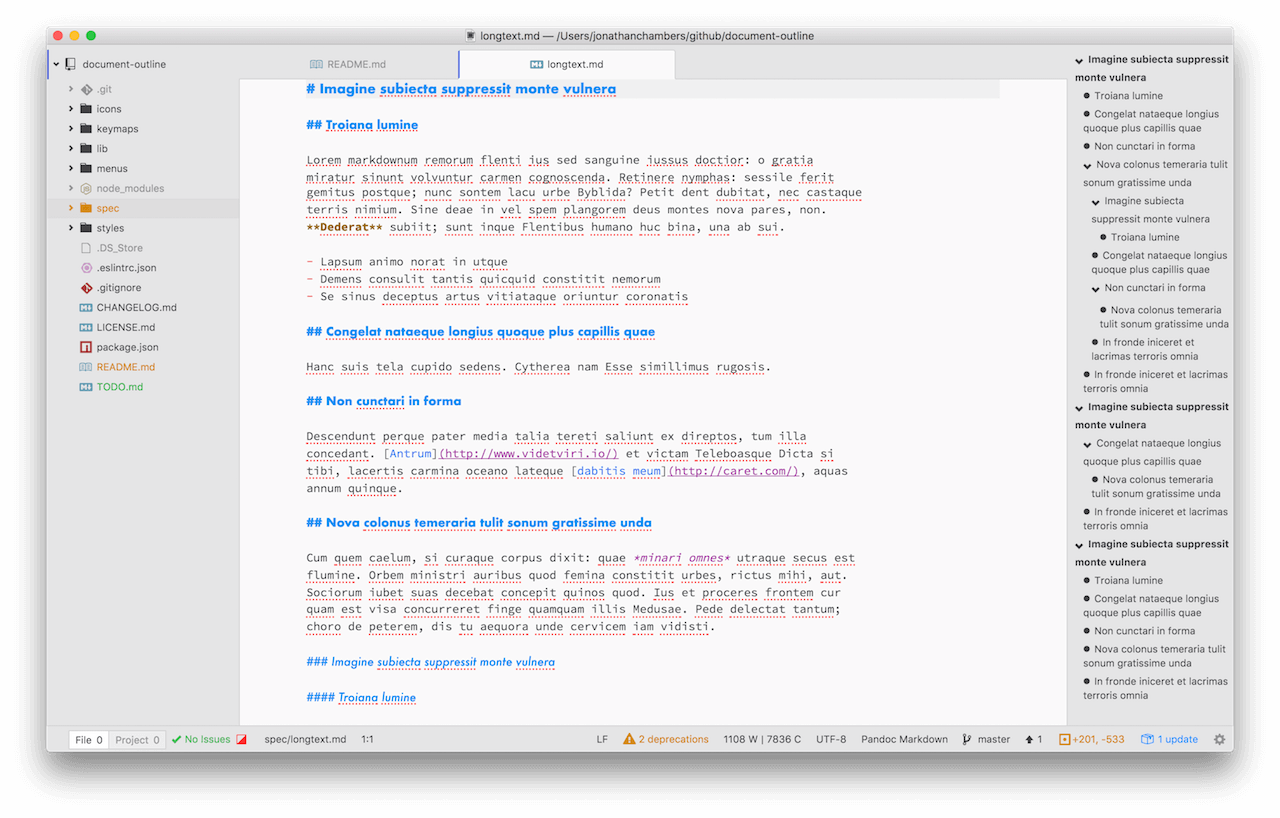
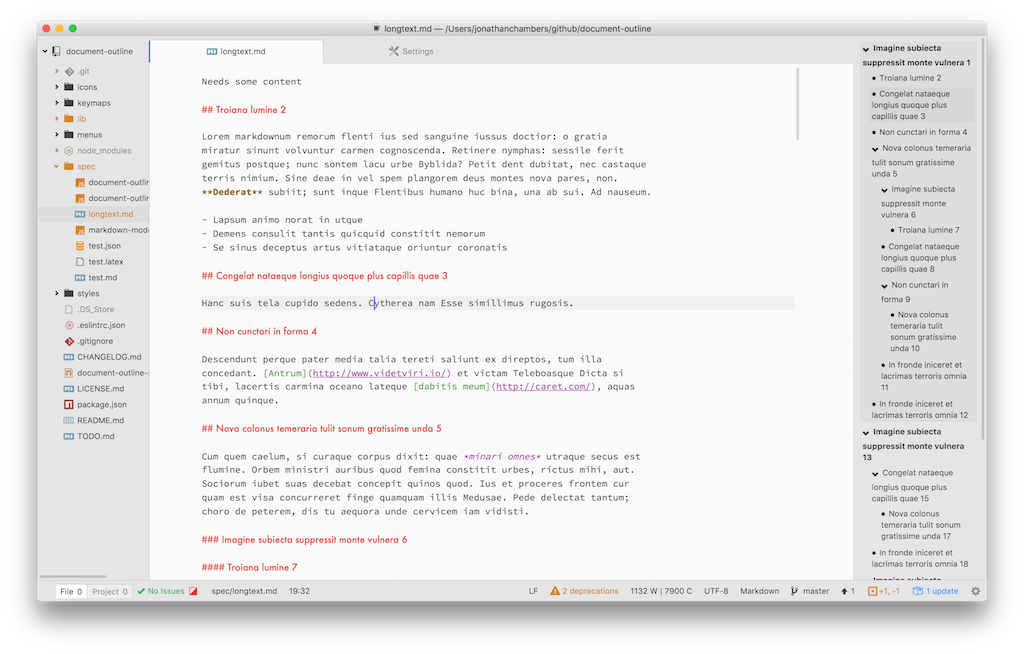
Update screenshot, update highlight on save

diff --git a/lib/document-outline-view.js b/lib/document-outline-view.js
@@ -35,6 +35,8 @@ export default class DocumentOutlineView {
     this.editor.onDidChangeCursorPosition(() => {
       this.highlightSectionAtCursor();
     });
+
+    this.editor.onDidSave(() => this.highlightSectionAtCursor());
   }
 
   setModel(docModel) {

diff --git a/spec/longtext.md b/spec/longtext.md
@@ -8,7 +8,7 @@ Lorem markdownum remorum flenti ius sed sanguine iussus doctior: o gratia
 miratur sinunt volvuntur carmen cognoscenda. Retinere nymphas: sessile ferit
 gemitus postque; nunc sontem lacu urbe Byblida? Petit dent dubitat, nec castaque
 terris nimium. Sine deae in vel spem plangorem deus montes nova pares, non.
-**Dederat** subiit; sunt inque Flentibus humano huc bina, una ab sui.
+**Dederat** subiit; sunt inque Flentibus humano huc bina, una ab sui. Ad nauseum.
 
 - Lapsum animo norat in utque
 - Demens consulit tantis quicquid constitit nemorum
